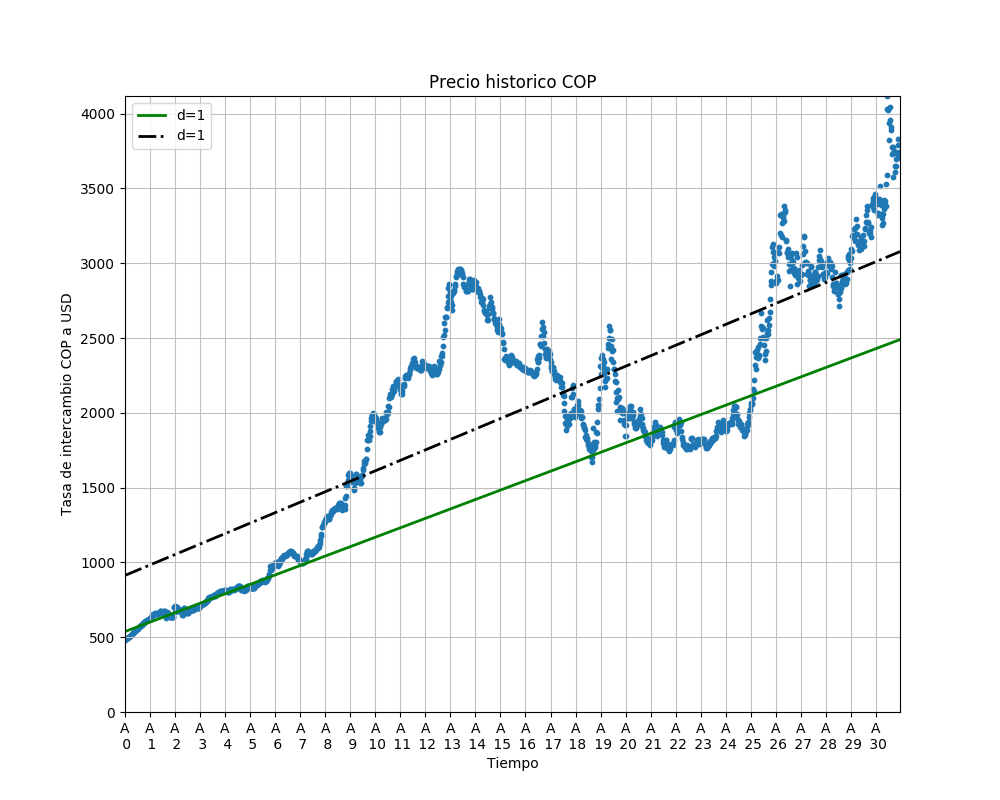
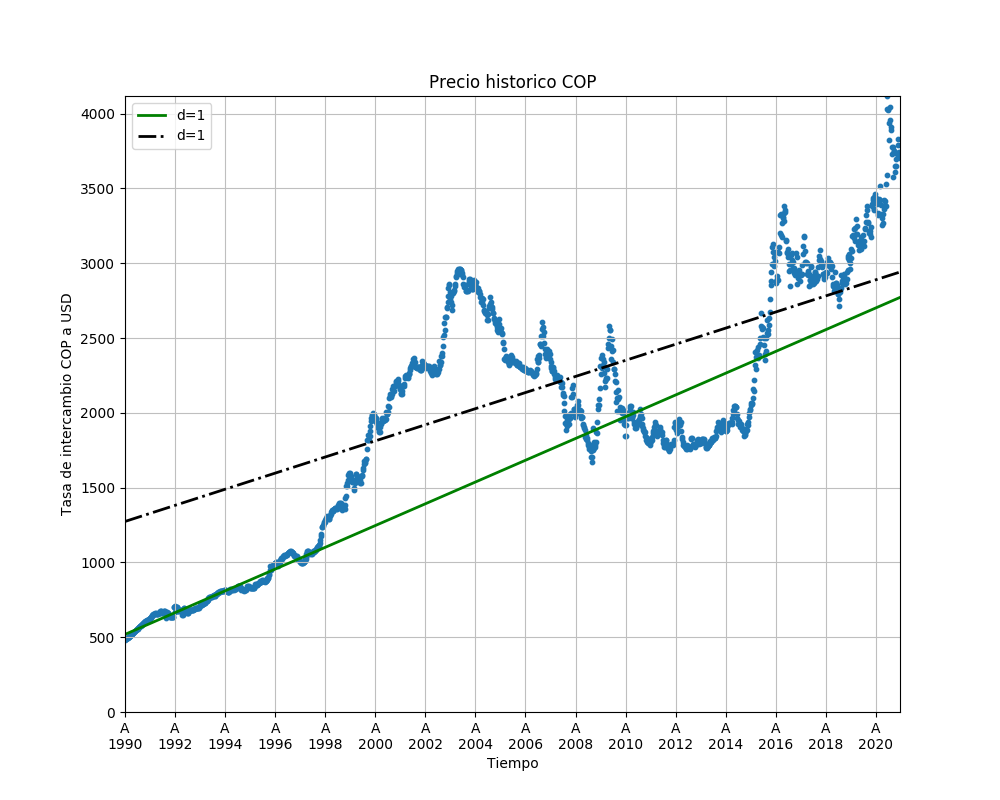
wip

diff --git a/Proyecto_Moneda_Colombiana/Previa/proyecto.py b/Proyecto_Moneda_Colombiana/Previa/proyecto.py
@@ -78,10 +78,10 @@ print(y)
 # #Definicion de variables
 #-----------------------------------------------------------------
 #La cantidad de años que se tiene en el dataset
-intervalo_tiempo = 34
+intervalo_tiempo = int(34 / 2)
 #Los distinto rangos temporales que se van a usar para visualizar los 
 #datos
-conversion_temporal = 52
+conversion_temporal = 52 * 2
 #Valor el cual se espera predecir con el dataset
 prediccion = 5000
 
@@ -154,7 +154,7 @@ def plot_models(x, y, models, fname, mx=None, ymax=None, xmin=None):
     # 4, lo cual constituye las semanas analizadas
     plt.xticks(
         [w  * conversion_temporal for w in range(intervalo_tiempo)],
-        ['A\n %i' % w for w in range(intervalo_tiempo)])
+        ['A\n' +str(int(w*2+1990)) for w in range(intervalo_tiempo)])
 
     # Aquí se evalúa el tipo de modelo recibido
     # Si no se envía ninguno, no se dibuja ninguna curva de ajuste
@@ -225,6 +225,7 @@ print("Error del modelo fp2:", res2)
 f2 = sp.poly1d(fp2)
 #En la función polyfit se crea un listado con los coeficientes del polinomio de orden n  en este de grado 3
 f3 = sp.poly1d(np.polyfit(x, y, 3))
+f5 = sp.poly1d(np.polyfit(x, y, 5))
 f10 = sp.poly1d(np.polyfit(x, y, 10))
 f100 = sp.poly1d(np.polyfit(x, y, 70))
 
@@ -268,11 +269,11 @@ def error(f, x, y):
 # -----------------------------------------------------------------
 #MUESTRA EL ERROR DEFINIDO ANTERIORMENTE PARA CADA ORDEN
 print("Errores para el conjunto completo de datos:")
-for f in [f1, f2, f3, f10, f100]:
+for f in [f1, f2, f3,f5, f10]:
     print("Error d=%i: %f" % (f.order, error(f, x, y)))
 
 print("Errores solamente después del punto de inflexión")
-for f in [f1, f2, f3, f10, f100]:
+for f in [f1, f2, f3,f5, f10]:
     print("Error d=%i: %f" % (f.order, error(f, xb, yb)))
 
 print("Error de inflexión=%f" % (error(fa, xa, ya) + error(fb, xb, yb)))
@@ -280,7 +281,7 @@ print("Error de inflexión=%f" % (error(fa, xa, ya) + error(fb, xb, yb)))
 # Se extrapola de modo que se proyecten respuestas en el futuro
 # -----------------------------------------------------------------
 plot_models(
-    x, y, [f1, f2, f3, f10, f100],
+    x, y, [f3,f5, f10],
     os.path.join(CHART_DIR, "1400_01_06.png"),
     mx=np.linspace(0 *conversion_temporal, intervalo_tiempo * conversion_temporal , 100),
     ymax=prediccion, xmin=0 * conversion_temporal)
@@ -297,17 +298,18 @@ print("Entrenamiento de datos únicamente despúes del punto de inflexión")
 fb1 = fb
 fb2 = sp.poly1d(np.polyfit(xb, yb, 2))
 fb3 = sp.poly1d(np.polyfit(xb, yb, 3))
+fb5 = sp.poly1d(np.polyfit(xb, yb, 5))
 fb10 = sp.poly1d(np.polyfit(xb, yb, 10))
 fb100 = sp.poly1d(np.polyfit(xb, yb, 70))
 
 print("Errores después del punto de inflexión")
-for f in [fb1, fb2, fb3, fb10, fb100]:
+for f in [fb1, fb2, fb3,fb5, fb10]:
     print("Error d=%i: %f" % (f.order, error(f, xb, yb)))
 
 # Gráficas después del punto de inflexión
 # -----------------------------------------------------------------
 plot_models(
-    x, y, [fb1, fb2, fb3, fb10, fb100],
+    x, y, [fb3,fb5, fb10],
     os.path.join(CHART_DIR, "1400_01_07.png"),
     mx=np.linspace(0 * conversion_temporal, intervalo_tiempo*conversion_temporal, 100),
     ymax=prediccion, xmin=0 * conversion_temporal)
@@ -338,6 +340,7 @@ print("fbt2(x)= \n%s" % fbt2)
 print("fbt2(x)-100,000= \n%s" % (fbt2-prediccion))
 
 fbt3 = sp.poly1d(np.polyfit(xb[train], yb[train], 3))
+fbt5 = sp.poly1d(np.polyfit(xb[train], yb[train], 5))
 fbt10 = sp.poly1d(np.polyfit(xb[train], yb[train], 10))
 fbt100 = sp.poly1d(np.polyfit(xb[train], yb[train], 70))
 
@@ -347,7 +350,7 @@ for f in [fbt1, fbt2, fbt3, fbt10, fbt100]:
     print("Error d=%i: %f" % (f.order, error(f, xb[test], yb[test])))
 
 plot_models(
-    x, y, [fbt1, fbt2, fbt3, fbt10, fbt100],
+    x, y, [fbt3, fbt5, fbt10],
     os.path.join(CHART_DIR, "1400_01_08.png"),
     mx=np.linspace(0 *conversion_temporal, intervalo_tiempo*conversion_temporal, 100),
     ymax=prediccion, xmin=0 *conversion_temporal)
@@ -366,8 +369,8 @@ print(fbt2 - prediccion)
 #x0 es un parametro fijo que dice el valor desde donde se empieza el análisis
 #como fsolve da el valor en horas se debe convertir a semanas y se guarda en
 #la variable alcanzado_max
-alcanzado_max = fsolve(fbt2 - prediccion, x0=800) / (conversion_temporal)
+alcanzado_max = fsolve(fbt5 - prediccion, x0=2000) / (conversion_temporal)
 #Se imprime la semana en que se llegará a 100.000
-ano = alcanzado_max[0]+1989
+ano = alcanzado_max[0] * 2 +1990
 print("\nLa moneda alcanzará el valor de conversion de "+ str(prediccion) + " en el año %f" %
       ano)
